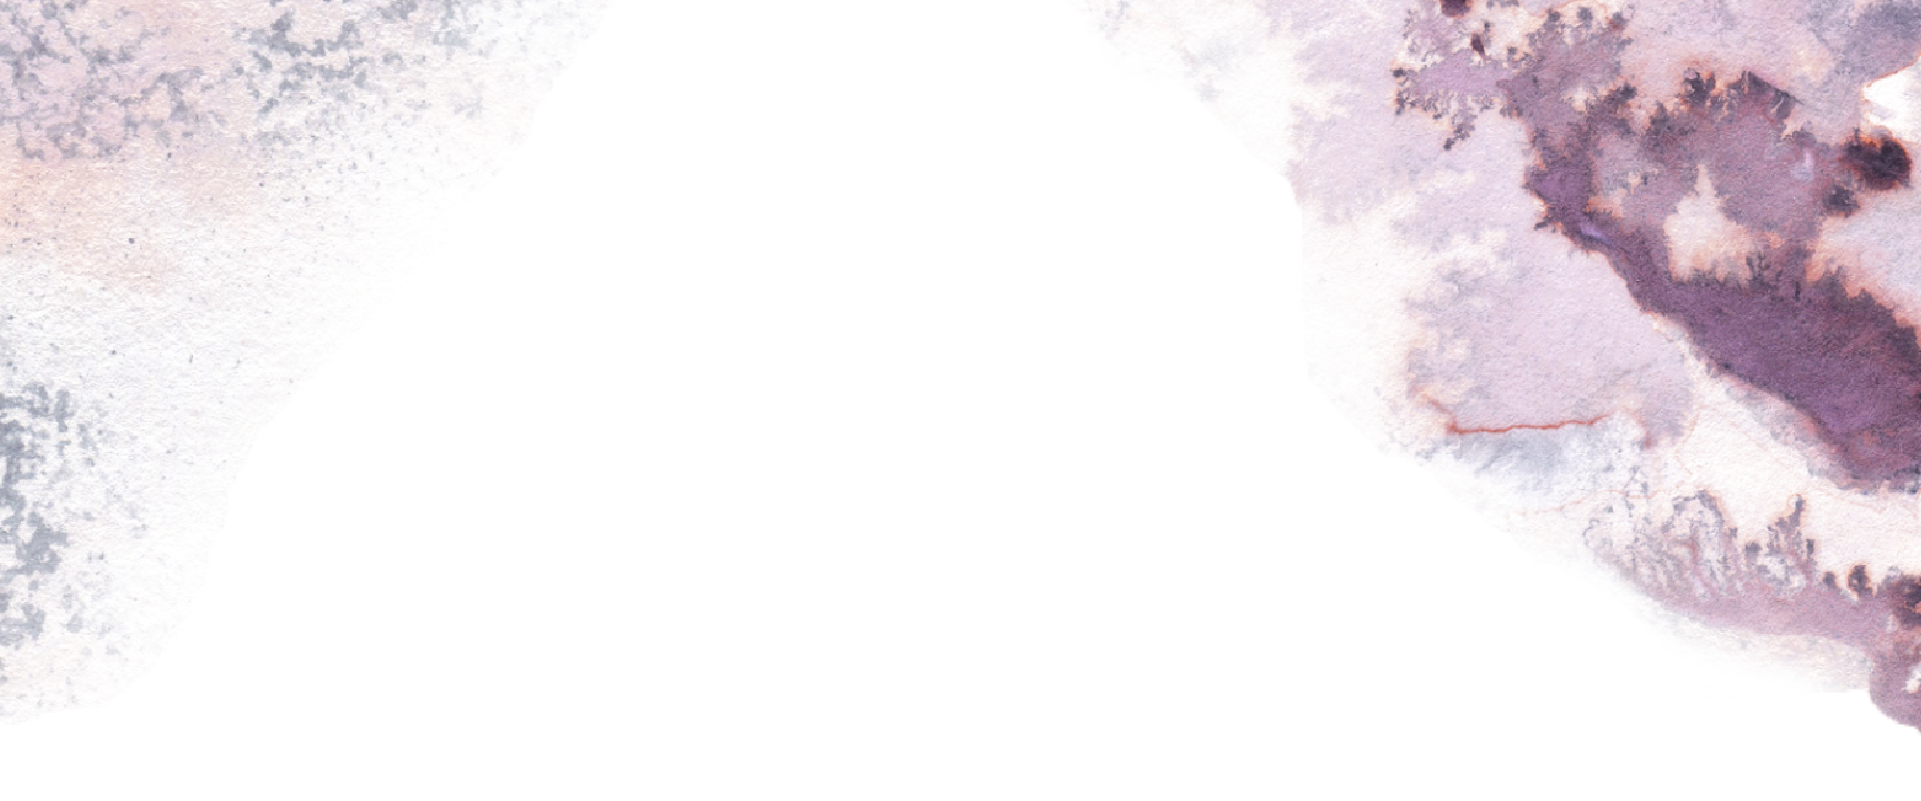
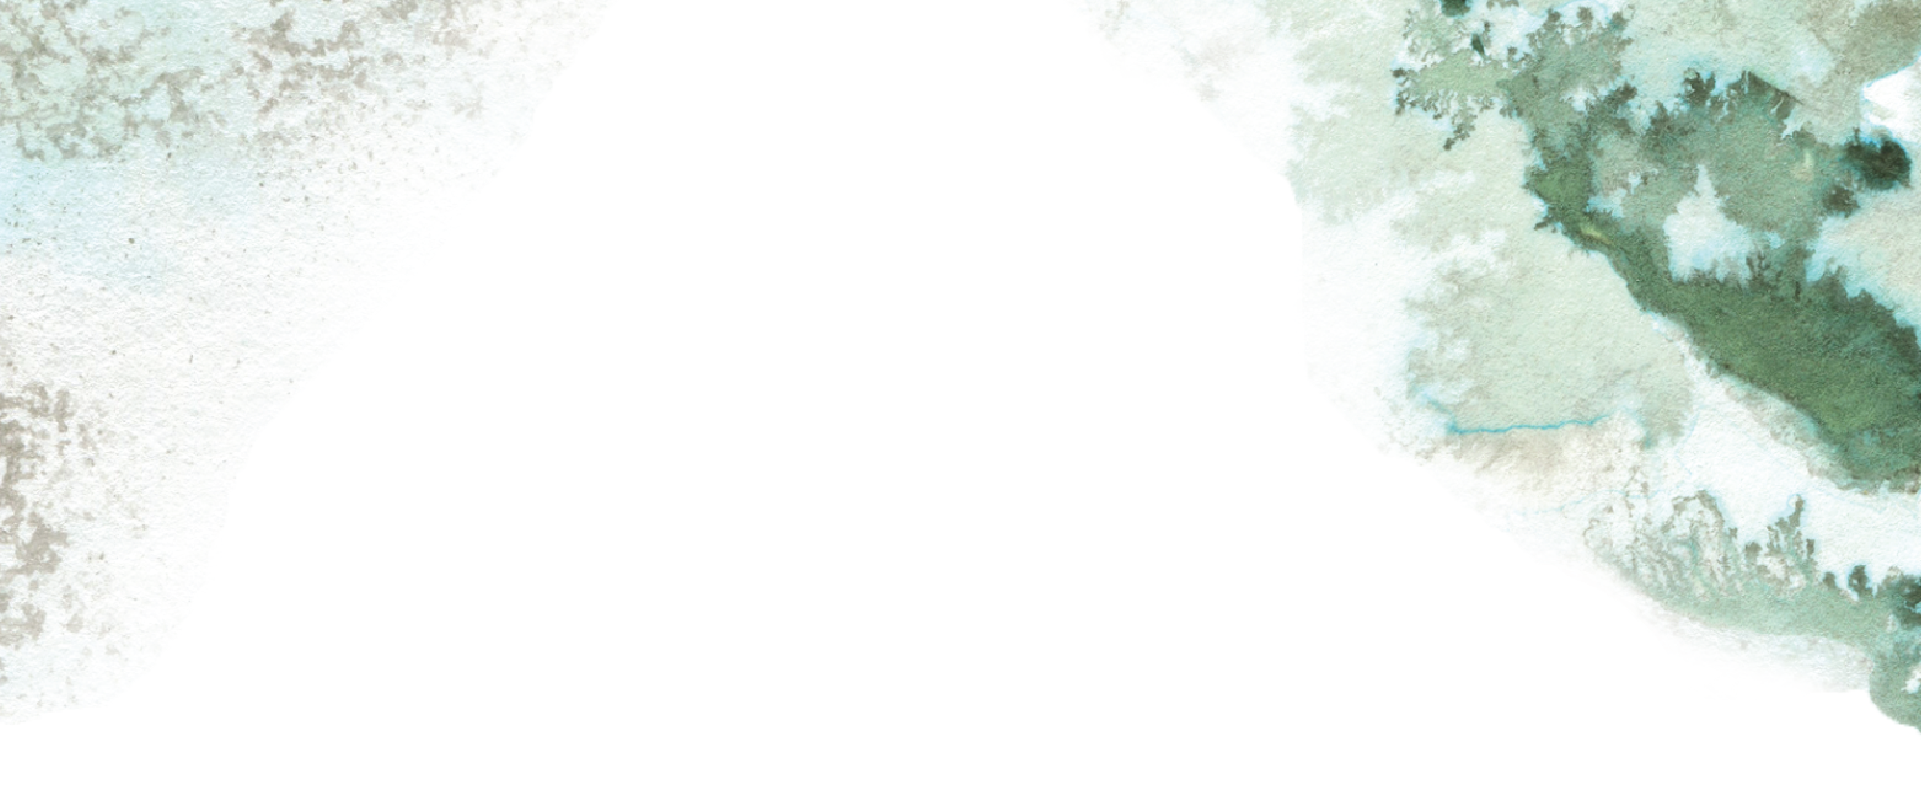
completely finish photo gallery and change background color

Changed region(s): [[0.7184, 0.0, 1.0, 0.9363], [0.7184, 0.4682, 0.8745, 0.5618], [0.0, 0.1873, 0.0312, 0.2809]]

diff --git a/photos.js b/photos.js
@@ -1,5 +1,5 @@
-// import { initializeApp } from "https://www.gstatic.com/firebasejs/9.8.4/firebase-app.js";
-// import { storage } from "https://www.gstatic.com/firebasejs/9.8.4/firebase-storage.js";
+import { initializeApp } from "https://www.gstatic.com/firebasejs/9.8.4/firebase-app.js";
+import { getStorage, ref, getDownloadURL, listAll } from "https://www.gstatic.com/firebasejs/9.8.4/firebase-storage.js";
 // import storage from "firebase/storage";
 
 // TODO: Replace the following with your app's Firebase project configuration
@@ -10,8 +10,68 @@ const firebaseConfig = {
 };
 
 // Initialize Firebase
-initializeApp(firebaseConfig);
+const app = initializeApp(firebaseConfig);
 
 
 // Initialize Cloud Storage and get a reference to the service
-const storage = _storage();
+const storage = getStorage(app);
+
+// const pathReference = ref(storage, 'pictures/colors.html');
+
+const listRef = ref(storage, 'pictures/');
+
+// Find all the prefixes and items.
+listAll(listRef)
+  .then((res) => {
+    // res.prefixes.forEach((folderRef) => {
+    //   // All the prefixes under listRef.
+    //   // You may call listAll() recursively on them.
+    // });
+    res.items.forEach((itemRef) => {
+      // All the items under listRef.
+      getDownloadURL(ref(storage, itemRef))
+        .then((url) => {
+            // `url` is the download URL for 'images/stars.jpg'
+            // Or inserted into an <img> element
+            // console.log(url)
+            const image = document.createElement("img");
+            image.setAttribute("src",url);
+            // para.appendChild(node);
+
+            const element = document.getElementById("gallery");
+            element.appendChild(image);
+
+            // const img = document.getElementById('myimg');
+            // img.setAttribute('src', url);
+        })
+        .catch((error) => {
+            // Handle any errors
+        });
+    });
+  }).catch((error) => {
+    // Uh-oh, an error occurred!
+  });
+
+
+getDownloadURL(ref(storage, 'pictures/colors.html'))
+  .then((url) => {
+    // `url` is the download URL for 'images/stars.jpg'
+
+    // This can be downloaded directly:
+    // const xhr = new XMLHttpRequest();
+    // xhr.responseType = 'blob';
+    // xhr.onload = (event) => {
+    //   const blob = xhr.response;
+    // };
+    // xhr.open('GET', url);
+    // xhr.send();
+
+    // Or inserted into an <img> element
+    const img = document.getElementById('myimg');
+    img.setAttribute('src', url);
+  })
+  .catch((error) => {
+    // Handle any errors
+  });
+
+// console.log("finished");

diff --git a/index.html b/index.html
@@ -6,10 +6,10 @@
     <link rel="stylesheet" href="style.css">
     <script type="text/javascript" src="script.js"></script>
     <script type="text/javascript" src="countdown.js"></script>
-    <script type="text/javascript" src="photos.js"></script>
+    <script type="module" src="photos.js"></script>
     
-    <script type="text/javascript" src="modules/firebase-app.js"></script>
-    <script type="text/javascript" src="modules/firebase-storage.js"></script>
+    <!-- <script type="text/javascript" src="modules/firebase-app.js"></script>
+    <script type="text/javascript" src="modules/firebase-storage.js"></script> -->
     <!-- <script type="text/javascript" src="https://www.gstatic.com/firebasejs/9.8.4/firebase-app.js"></script>
     <script type="text/javascript" src="https://www.gstatic.com/firebasejs/9.8.4/firebase-storage.js"></script> -->
     <title>Emmie &amp; Sean</title>
@@ -96,6 +96,10 @@
     </div>
     <div class="content hidden" id="photos">
         <p>Coming soon!</p>
+        <!-- <img id="myimg" /> -->
+        <div class="flex" id="gallery">
+            
+        </div>
     </div>
     <!-- Wedding Details
         RSVP

diff --git a/style.css b/style.css
@@ -40,6 +40,7 @@
   .flex {
     display:flex;
     justify-content: center;
+    flex-wrap:wrap;
   }
 
 h1 {
@@ -174,4 +175,13 @@ input[type=radio] {
 label {
     padding-right:0.2em;
     padding-left:0.5em;
+}
+
+
+
+#gallery img {
+    padding: 1em 1em 1em 1em;
+    size:initial;
+    width:15em;
+    height:fit-content;
 }
